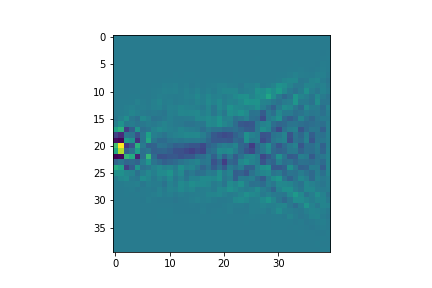
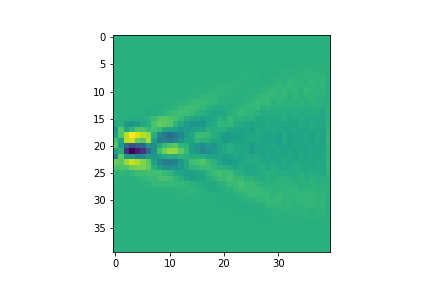
Debugged ParameterChangelog, also got the meep_adjoint_with_pdt.py example working slightly better

diff --git a/meep_adjoint_with_pdt.py b/meep_adjoint_with_pdt.py
@@ -6,7 +6,7 @@ Created on Wed Mar  2 11:18:16 2022
 @author: skenning
 """
 
-from pdt.core import Simulation, Util
+from pdt.core import Simulation, Util, ParameterChangelog
 from pdt.opt import DesignRegion, MaterialFunction, LegendreTaperMaterialFunction
 
 import meep as mp
@@ -16,6 +16,8 @@ from autograd import numpy as npa
 import numpy as np
 
 import matplotlib.pyplot as plt
+
+import copy
 
 class LegendreTaperSimulation(Simulation):
     def __init__(self, 
@@ -40,6 +42,7 @@ class LegendreTaperSimulation(Simulation):
         self.wavelengths = wavelengths 
         
         # Globally held/updated simulation objects
+        self.parameter_changelog = ParameterChangelog()
         self.sim = None
         self.opt = None
         self.taper = None
@@ -53,79 +56,100 @@ class LegendreTaperSimulation(Simulation):
         to_pml_x = parameters["to_pml_x"]
         to_pml_y = parameters["to_pml_y"]
         resolution = parameters["resolution"]
+        
+        # Optimization parameter(s)
         polynomial_coeffs = parameters["polynomial_coeffs"]
         
-        # Simulation cell sizing
-        sx = 2 * (pml_x_thickness + to_pml_x) + self.taper_length + 2 * straight_length
-        sy = 2 * (to_pml_y + pml_y_thickness) + self.taper_w2
-        cell = mp.Vector3(sx, sy)
-        
-        # Boundary conditions
-        boundary_layers = [mp.PML(pml_x_thickness, direction=mp.X),
-                           mp.PML(pml_y_thickness, direction=mp.Y)]
-        
-        # Our device is symmetric, mirror symmetry to speed up computation
-        symmetries = [mp.Mirror(mp.Y)]
+        # We now use the changelog class to see if any of the convergence parameters changed
+        self.parameter_changelog.updateParameters(parameters)
+        if self.parameter_changelog.changesExclude(["polynomial_coeffs"]): # Rebuild the simulation
+            self._log_info("Convergence parameters changed, rebuilding simulation")
+            if self.sim: 
+                # If other simulations have been ran, we reset meep and all other simulation objects
+                self.sim.reset_meep()
+                
+                self.sim = None
+                self.opt = None
+                self.taper = None
+                self.design_region = None
+            
+            # Reconstruct everything
+            # Simulation cell sizing
+            sx = 2 * (pml_x_thickness + to_pml_x) + self.taper_length + 2 * straight_length
+            sy = 2 * (to_pml_y + pml_y_thickness) + self.taper_w2
+            cell = mp.Vector3(sx, sy)
+            
+            # Boundary conditions
+            boundary_layers = [mp.PML(pml_x_thickness, direction=mp.X),
+                               mp.PML(pml_y_thickness, direction=mp.Y)]
+            
+            # Our device is symmetric, mirror symmetry to speed up computation
+            symmetries = [mp.Mirror(mp.Y)]
 
-        # Materials
-        Si = mp.Medium(index=3.4)
-        SiO2 = mp.Medium(index=1.44)
-        
-        # Geometry
-        actual_L_straight = (sx - self.taper_length) / 2
+            # Materials
+            Si = mp.Medium(index=3.4)
+            SiO2 = mp.Medium(index=1.44)
+            
+            # Geometry
+            actual_L_straight = (sx - self.taper_length) / 2
 
-        small_wg = mp.Block(mp.Vector3(actual_L_straight, self.taper_w1), center=mp.Vector3(-self.taper_length/2 - actual_L_straight/2, 0), material=Si)
-        large_wg = mp.Block(mp.Vector3(actual_L_straight, self.taper_w2), center=mp.Vector3(self.taper_length/2 + actual_L_straight/2, 0), material=Si)
-        
-        # Sources and such
-        input_monitor_pt = mp.Vector3(-0.5 * (self.taper_length + straight_length), 0)
-        source_pt = mp.Vector3(-0.5 * self.taper_length - 0.75 *  + straight_length, 0)
-        output_monitor_pt = mp.Vector3(0.5 * (self.taper_length + straight_length), 0)
+            small_wg = mp.Block(mp.Vector3(actual_L_straight, self.taper_w1), center=mp.Vector3(-self.taper_length/2 - actual_L_straight/2, 0), material=Si)
+            large_wg = mp.Block(mp.Vector3(actual_L_straight, self.taper_w2), center=mp.Vector3(self.taper_length/2 + actual_L_straight/2, 0), material=Si)
+            
+            # Sources and such
+            input_monitor_pt = mp.Vector3(-0.5 * (self.taper_length + straight_length), 0)
+            source_pt = mp.Vector3(-0.5 * self.taper_length - 0.75 *  + straight_length, 0)
+            output_monitor_pt = mp.Vector3(0.5 * (self.taper_length + straight_length), 0)
 
-        sources = [mp.EigenModeSource(src=mp.GaussianSource(1/self.center_wavelength, width=self.gaussian_width),
-                                      center=source_pt,
-                                      size=mp.Vector3(y=sy-2*pml_y_thickness),
-                                      eig_match_freq=True,
-                                      eig_parity=mp.ODD_Z+mp.EVEN_Y)]
-        
-        # Design region setup (using the pdt tools)
-        meep_dr_nx = int(resolution * self.taper_length) // 2
-        meep_dr_ny = int(resolution * self.taper_w2) // 2
-        
-        self.taper = LegendreTaperMaterialFunction(self.taper_order, [self.taper_length, self.taper_w2], self.taper_w1, self.taper_w2)
-        self.design_region = DesignRegion([self.taper_length, self.taper_w2], [meep_dr_nx, meep_dr_ny])
-        
-        # Design region setup (specific to MEEP)
-        meep_design_variables = mp.MaterialGrid(mp.Vector3(meep_dr_nx,meep_dr_ny),SiO2,Si,grid_type='U_MEAN')
-        meep_design_region = mpa.DesignRegion(meep_design_variables,volume=mp.Volume(center=mp.Vector3(), size=mp.Vector3(self.taper_length, self.taper_w2, 0)))
-        
-        dr_geometry=mp.Block(size=meep_design_region.size, material=meep_design_variables)
-        
-        self.sim = mp.Simulation(resolution=resolution,
-                                 cell_size=cell,
-                                 boundary_layers=boundary_layers,
-                                 geometry=[small_wg, large_wg, dr_geometry],
-                                 sources=sources,
-                                 eps_averaging=False, # See what this does
-                                 default_material=SiO2)
-        
-        # Adjoint monitors
-        TE0_input = mpa.EigenmodeCoefficient(sim, mp.Volume(center=input_monitor_pt, size=mp.Vector3(y=sy-2*pml_y_thickness)), mode=1, forward=True)
-        TE0_output = mpa.EigenmodeCoefficient(sim, mp.Volume(center=output_monitor_pt, size=mp.Vector3(y=sy-2*pml_y_thickness)), mode=1, forward=True)
-        ob_list=[TE0_input, TE0_output]
-        
-        def objective_function(TE0_input, TE0_output):
-            #print(npa.mean(npa.abs(TE0_output/TE0_input)**2))
-            return npa.mean(npa.abs(TE0_output/TE0_input)**2) # Maximize the power in the fundamental mode at the output
-        
-        # MEEP adjoint setup
-        self.opt = mpa.OptimizationProblem(simulation=sim, 
-                                           objective_functions=objective_function,
-                                           objective_arguments=ob_list,
-                                           design_regions=[meep_design_region],
-                                           frequencies=1/np.asarray(self.wavelengths),
-                                           decay_by=1e-3)
-        
+            sources = [mp.EigenModeSource(src=mp.GaussianSource(1/self.center_wavelength, width=self.gaussian_width),
+                                          center=source_pt,
+                                          size=mp.Vector3(y=sy-2*pml_y_thickness),
+                                          eig_match_freq=True,
+                                          eig_parity=mp.ODD_Z+mp.EVEN_Y)]
+            
+            # Design region setup (using the pdt tools)
+            meep_dr_nx = int(resolution * self.taper_length) // 2
+            meep_dr_ny = int(resolution * self.taper_w2) // 2
+            
+            self.taper = LegendreTaperMaterialFunction(self.taper_order, [self.taper_length, self.taper_w2], self.taper_w1, self.taper_w2)
+            self.design_region = DesignRegion([self.taper_length, self.taper_w2], [meep_dr_nx, meep_dr_ny])
+            
+            # Design region setup (specific to MEEP)
+            meep_design_variables = mp.MaterialGrid(mp.Vector3(meep_dr_nx,meep_dr_ny),SiO2,Si,grid_type='U_MEAN')
+            meep_design_region = mpa.DesignRegion(meep_design_variables,volume=mp.Volume(center=mp.Vector3(), size=mp.Vector3(self.taper_length, self.taper_w2, 0)))
+            
+            dr_geometry=mp.Block(size=meep_design_region.size, material=meep_design_variables)
+            
+            self.sim = mp.Simulation(resolution=resolution,
+                                     cell_size=cell,
+                                     boundary_layers=boundary_layers,
+                                     geometry=[small_wg, large_wg, dr_geometry],
+                                     sources=sources,
+                                     eps_averaging=False, # See what this does
+                                     default_material=SiO2)
+            
+            # Adjoint monitors
+            TE0_input = mpa.EigenmodeCoefficient(self.sim, mp.Volume(center=input_monitor_pt, size=mp.Vector3(y=sy-2*pml_y_thickness)), mode=1, forward=True)
+            TE0_output = mpa.EigenmodeCoefficient(self.sim, mp.Volume(center=output_monitor_pt, size=mp.Vector3(y=sy-2*pml_y_thickness)), mode=1, forward=True)
+            ob_list=[TE0_input, TE0_output]
+            
+            def objective_function(TE0_input, TE0_output):
+                #print(npa.mean(npa.abs(TE0_output/TE0_input)**2))
+                return npa.mean(npa.abs(TE0_output/TE0_input)**2) # Maximize the power in the fundamental mode at the output
+            
+            # MEEP adjoint setup
+            self.opt = mpa.OptimizationProblem(simulation=self.sim, 
+                                               objective_functions=objective_function,
+                                               objective_arguments=ob_list,
+                                               design_regions=[meep_design_region],
+                                               frequencies=1/np.asarray(self.wavelengths),
+                                               decay_by=1e-3)
+            
+            # End reconstruction of the simulation
+        else:
+            self._log_info("Convergence parameters did not change")
+            
+        # Now we update the design region (meep's) and give it a nice plot
         design = self.design_region.evalMaterialFunction(self.taper, MaterialFunction.arrayToParams('b', polynomial_coeffs))
         self.opt.update_design([design.transpose().flatten()])
 
@@ -138,15 +162,16 @@ class LegendreTaperSimulation(Simulation):
         if Util.is_master():
             if len(dJ_du.shape) > 1:
                 print(dJ_du)
-                dJ_du = np.sum(dJ_du, axis=1).reshape(meep_dr_nx, meep_dr_ny).transpose()
+                dJ_du = np.sum(dJ_du, axis=1).reshape(self.design_region.N).transpose()
                 print(dJ_du.shape)
                 print(dJ_du)
                 plt.figure()
-                plt.imshow(np.sum(dJ_du, axis=1).reshape(meep_dr_nx, meep_dr_ny).transpose())
+                plt.imshow(np.sum(dJ_du, axis=1).reshape(self.design_region.N).transpose())
             else:
                 plt.figure()
-                plt.imshow(dJ_du.reshape(meep_dr_nx, meep_dr_ny).transpose())
+                plt.imshow(dJ_du.reshape(self.design_region.N).transpose())
                 plt.savefig("result.png")
+        
                 
 if __name__ == "__main__":
     sim = LegendreTaperSimulation(center_wavelength=1.55,
@@ -168,5 +193,7 @@ if __name__ == "__main__":
         "polynomial_coeffs" : [1, 1, 0, 0, 0, 0, 0, 0, 0, 0]
         }
     
+    sim.run(test_parameters)
+    test_parameters["polynomial_coeffs"] = [1, 0, 0, 0, 0, 0, 0, 0, 0, 0]
     sim.run(test_parameters)
     

diff --git a/build/lib/pdt/core/Simulation.py b/build/lib/pdt/core/Simulation.py
@@ -12,6 +12,7 @@ import logging
 import h5py
 import time
 import numpy as np
+import copy
 
 from pdt.core.Util import *
 from pdt.core.Util import if_master
@@ -83,14 +84,18 @@ class ParameterChangelog:
         self.prev = None
         self.current = None
         
-    def _track_parameters(self, parameters: dict[str, typing.Any]):
-        self.prev = self.current
-        self.current = parameters
+    def updateParameters(self, parameters: dict[str, typing.Any]):
+        self.prev = copy.deepcopy(self.current)
+        self.current = copy.deepcopy(parameters)
         
         if self.prev: # Not the first run
             self.changes = dict()
             for key, value in self.current.items():
-                self.changes[key] = (hash(self.current[key]) != hash(self.prev[key]))
+                if isinstance(self.current[key], list):
+                    self.changes[key] = (hash(tuple(self.current[key])) != hash(tuple(self.prev[key])))
+                else:
+                    print("HERE:", key, self.current[key], self.prev[key])
+                    self.changes[key] = (hash(self.current[key]) != hash(self.prev[key]))
         else: # First run
             self.changes = dict()
             for key, value in self.current.items():

diff --git a/pdt/core/Simulation.py b/pdt/core/Simulation.py
@@ -12,6 +12,7 @@ import logging
 import h5py
 import time
 import numpy as np
+import copy
 
 from pdt.core.Util import *
 from pdt.core.Util import if_master
@@ -83,14 +84,17 @@ class ParameterChangelog:
         self.prev = None
         self.current = None
         
-    def _track_parameters(self, parameters: dict[str, typing.Any]):
-        self.prev = self.current
-        self.current = parameters
+    def updateParameters(self, parameters: dict[str, typing.Any]):
+        self.prev = copy.deepcopy(self.current)
+        self.current = copy.deepcopy(parameters)
         
         if self.prev: # Not the first run
             self.changes = dict()
             for key, value in self.current.items():
-                self.changes[key] = (hash(self.current[key]) != hash(self.prev[key]))
+                if isinstance(self.current[key], list):
+                    self.changes[key] = (hash(tuple(self.current[key])) != hash(tuple(self.prev[key])))
+                else:
+                    self.changes[key] = (hash(self.current[key]) != hash(self.prev[key]))
         else: # First run
             self.changes = dict()
             for key, value in self.current.items():

diff --git a/build/lib/pdt/core/__init__.py b/build/lib/pdt/core/__init__.py
@@ -1,1 +1,1 @@
-from pdt.core.Simulation import Simulation, Result, CSVParameterLoader
+from pdt.core.Simulation import Simulation, Result, CSVParameterLoader, ParameterChangelog

diff --git a/pdt/core/__init__.py b/pdt/core/__init__.py
@@ -1,1 +1,1 @@
-from pdt.core.Simulation import Simulation, Result, CSVParameterLoader
+from pdt.core.Simulation import Simulation, Result, CSVParameterLoader, ParameterChangelog
